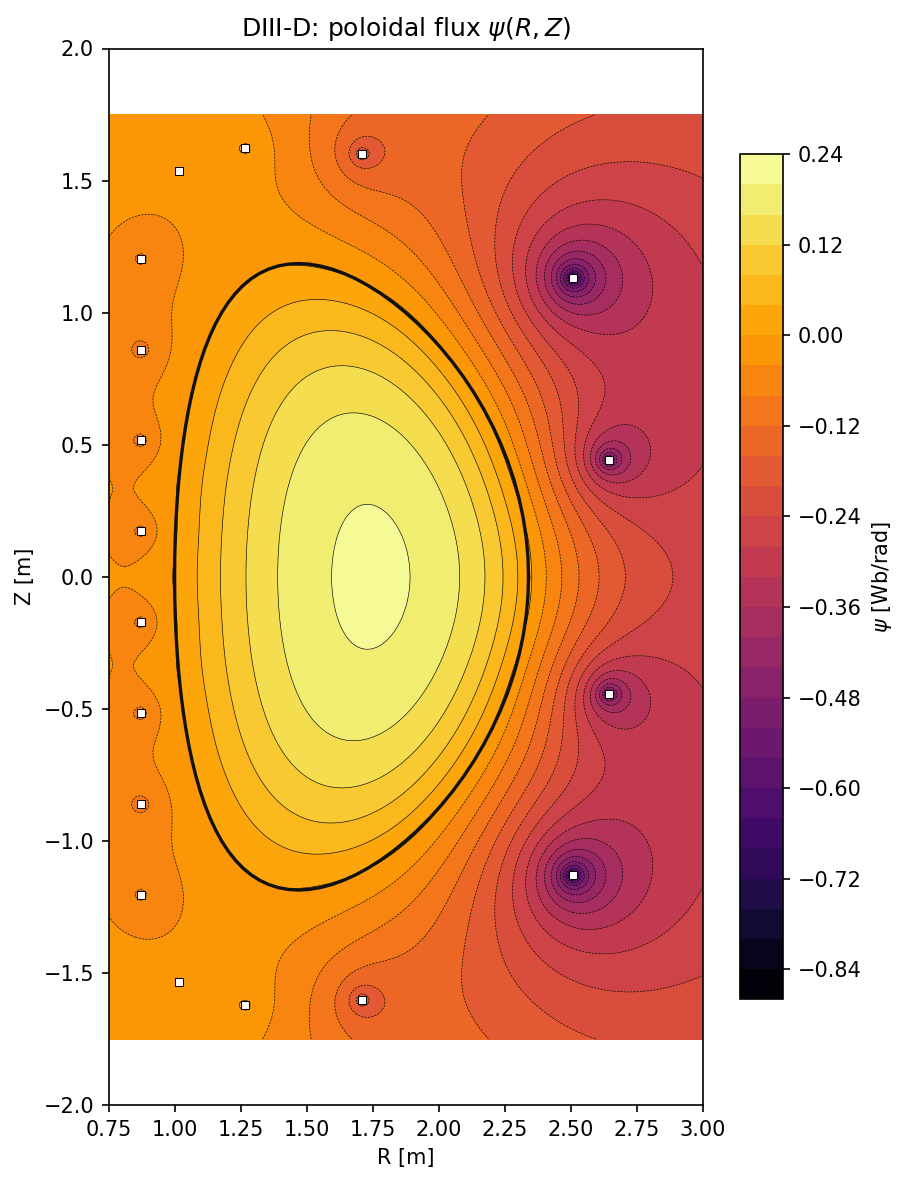
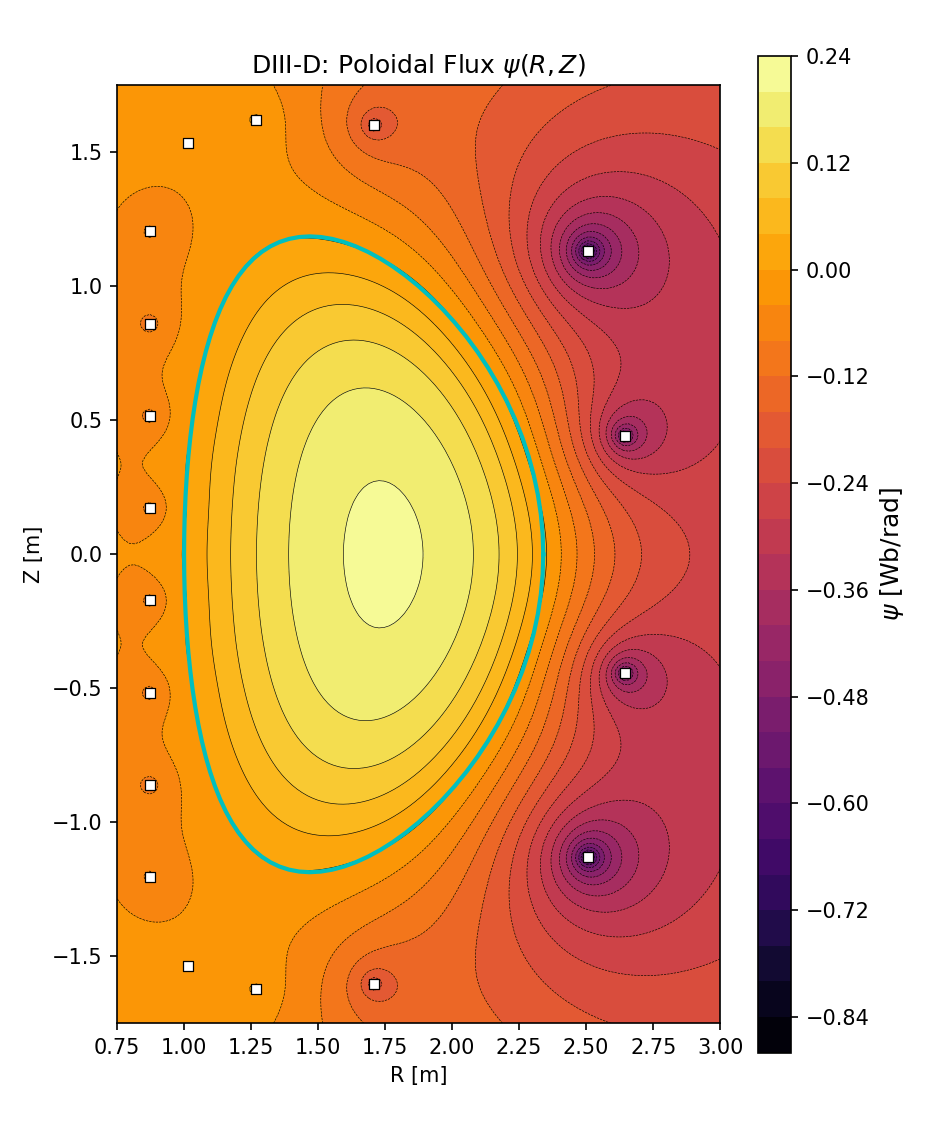
Update README figures and equation formatting
Regenerate the gallery images so that they match the validation figures
(mesh-domain limits, psi = 0 isocontour for the X-point solution, and the
zoom with the near-zero isocontours), without legends. Generate them from
the shared plotting module used by the notebooks, which now provides
dedicated functions for the flux, the X-point solution and its zoom.

Remove the LaTeX thin-space macros from the README equations and from the
notebook text, which some renderers display as stray commas, and simplify
the least-squares equation.

diff --git a/notebooks/reproduce_common.py b/notebooks/reproduce_common.py
@@ -463,53 +463,78 @@ def xpoint_table(runs, tags):
               f'{ref[t][0]:>11.2e} {ref[t][1]:>11.2e} {ref[t][2]:>11.2e}')
 
 
-def plot_xpoint_panels(run, fname=None, with_field=True):
-    """Nx=1 solution: (a) psi, (b) zoom at the X-point and, if ``with_field``, (c) B_R and B_Z along Z at R = R_X."""
+def _coil_squares(ax, cur, label=None):
+    ax.scatter(cur[:, 0], cur[:, 1], marker='s', s=25, c='white', edgecolors='k', linewidths=0.6,
+               label=label, zorder=5)
+
+
+def plot_xpoint_flux(run, fname=None):
+    """Nx=1: poloidal flux over the whole mesh domain. The cyan curve is the psi = 0 isocontour
+    (it passes through the X-point; small loops around isolated coils are genuine psi = 0 curves)."""
+    import matplotlib.pyplot as plt
+    RX, ZX = XPOINT_RZ
+    RR, ZZ = np.meshgrid(run['Rg'], run['Zg'])
+    levels = np.linspace(-1.0, 0.25, 31)
+    fig, ax = plt.subplots(figsize=(6, 7))
+    cf = ax.contourf(RR, ZZ, run['psi'], levels=levels, cmap='inferno', extend='both')
+    ax.contour(RR, ZZ, run['psi'], levels=levels, colors='k', linewidths=0.4)
+    ax.contour(RR, ZZ, run['psi'], levels=[0.0], colors='c', linewidths=2)
+    _coil_squares(ax, run['currents'])
+    ax.plot([RX], [ZX], 'r+', ms=18, mew=2)
+    fig.colorbar(cf, ax=ax, shrink=0.85).set_label(r'$\psi$ [Wb/rad]', fontsize=12)
+    ax.set_xlabel('R [m]')
+    ax.set_ylabel('Z [m]')
+    ax.set_title(rf'DIII-D ($N_x=1$, X-point ({RX:.2f},{ZX:.2f})): Poloidal Flux $\psi(R,Z)$', fontsize=11)
+    ax.set_xlim(R_LIM[0], R_LIM[1])
+    ax.set_ylim(run['Zg'][0], run['Zg'][-1])
+    ax.set_xticks(np.arange(R_LIM[0], R_LIM[1] + 0.01, 0.25))
+    fig.tight_layout()
+    if fname:
+        fig.savefig(fname, dpi=150, bbox_inches='tight')
+    return fig
+
+
+def plot_xpoint_zoom(run, fname=None):
+    """Nx=1: zoom at the X-point. Thick cyan: psi = 0. Thin lines: psi = +-0.001, +-0.003, +-0.005,
+    +-0.01 (solid positive, dashed negative). The colormap saturates outside [-0.27, 0.06]."""
+    import matplotlib.pyplot as plt
+    RX, ZX = XPOINT_RZ
+    RR, ZZ = np.meshgrid(run['Rg'], run['Zg'])
+    fig, ax = plt.subplots(figsize=(6.0, 5.9))
+    cf = ax.contourf(RR, ZZ, run['psi'], levels=np.arange(-1.0, 0.7501, 0.01), cmap='inferno',
+                     extend='both', vmin=-0.27, vmax=0.06)
+    cs = ax.contour(RR, ZZ, run['psi'], levels=[-0.01, -0.005, -0.003, -0.001, 0.001, 0.003, 0.005, 0.01],
+                    colors='deepskyblue', linewidths=1.0)
+    ax.clabel(cs, levels=[-0.003, 0.003], fontsize=6, fmt='%g')
+    ax.contour(RR, ZZ, run['psi'], levels=[0.0], colors='cyan', linewidths=3)
+    _coil_squares(ax, run['currents'])
+    ax.plot([RX], [ZX], 'r+', ms=18, mew=2.5)
+    cb = fig.colorbar(cf, ax=ax, shrink=0.85)
+    cb.set_label(r'$\psi$ [Wb/rad]', fontsize=11)
+    ticks = np.round(np.arange(-0.95, 0.58, 0.19), 2) + 0.0
+    cb.set_ticks(ticks)
+    cb.set_ticklabels([('0.00' if abs(t) < 1e-9 else f'{t:.2f}'.replace('-', '\u2212')) for t in ticks])
+    ax.set_xlim(RX - 0.35, RX + 0.35)
+    ax.set_ylim(ZX - 0.30, ZX + 0.30)
+    ax.set_xlabel('R [m]')
+    ax.set_ylabel('Z [m]')
+    ax.set_title('Zoom on the X-point region', fontsize=12)
+    fig.tight_layout()
+    if fname:
+        fig.savefig(fname, dpi=150, bbox_inches='tight')
+    return fig
+
+
+def plot_xpoint_field(run, fname=None):
+    """Nx=1: B_R and B_Z along Z at R = R_X, from the derivative of psi (cubic spline)."""
     import matplotlib.pyplot as plt
     from scipy.interpolate import RectBivariateSpline
     RX, ZX = XPOINT_RZ
-    RR, ZZ = np.meshgrid(run['Rg'], run['Zg'])
-    bd, cur = run['boundary'], run['currents']
-    fig, axes = plt.subplots(1, 3 if with_field else 2, figsize=(17 if with_field else 12, 6))
-    ax = axes[0]
-    cf = ax.contourf(RR, ZZ, run['psi'], levels=30, cmap='inferno')
-    ax.contour(RR, ZZ, run['psi'], levels=30, colors='k', linewidths=0.3)
-    ax.plot(bd[:, 0], bd[:, 1], 'c-', lw=1.5, label='Boundary with X-point')
-    ax.scatter(cur[:, 0], cur[:, 1], marker='s', s=20, c='white', edgecolors='k', lw=0.5, zorder=5, label='PF coils')
-    ax.plot([RX], [ZX], 'rx', ms=9, mew=2, label='X-point')
-    ax.set_title(r'Poloidal flux $\psi(R,Z)$')
-    ax.set_aspect('equal')
-    ax.set_xlabel('R [m]')
-    ax.set_ylabel('Z [m]')
-    ax.legend(fontsize=7, loc='upper right')
-    fig.colorbar(cf, ax=ax, shrink=0.7)
-    ax = axes[1]
-    w = 0.25
-    sel_r = (run['Rg'] > RX - w) & (run['Rg'] < RX + w)
-    sel_z = (run['Zg'] > ZX - w) & (run['Zg'] < ZX + w)
-    sub = run['psi'][np.ix_(sel_z, sel_r)]
-    cf = ax.contourf(RR[np.ix_(sel_z, sel_r)], ZZ[np.ix_(sel_z, sel_r)], sub, levels=30, cmap='inferno')
-    ax.contour(RR[np.ix_(sel_z, sel_r)], ZZ[np.ix_(sel_z, sel_r)], sub, levels=[0.0], colors='c', linewidths=1.5)
-    ax.plot(bd[:, 0], bd[:, 1], 'w-', lw=1)
-    ax.plot([RX], [ZX], 'rx', ms=10, mew=2)
-    ax.set_xlim(RX - w, RX + w)
-    ax.set_ylim(ZX - w, ZX + w)
-    ax.set_title('Zoom at the X-point')
-    ax.set_aspect('equal')
-    ax.set_xlabel('R [m]')
-    fig.colorbar(cf, ax=ax, shrink=0.7)
-    if not with_field:
-        fig.tight_layout()
-        if fname:
-            fig.savefig(fname, dpi=150, bbox_inches='tight')
-        return fig
-    ax = axes[2]
     sp = RectBivariateSpline(run['Zg'], run['Rg'], run['psi'], kx=3, ky=3)
     zs = np.linspace(max(ZX - 0.5, run['Zg'][0]), ZX + 0.5, 400)
-    BR = -sp(zs, RX, dx=1, grid=False) / RX
-    BZ = sp(zs, RX, dy=1, grid=False) / RX
-    ax.plot(zs, BR, label=r'$B_R$')
-    ax.plot(zs, BZ, label=r'$B_Z$')
+    fig, ax = plt.subplots(figsize=(6, 4.5))
+    ax.plot(zs, -sp(zs, RX, dx=1, grid=False) / RX, label=r'$B_R$')
+    ax.plot(zs, sp(zs, RX, dy=1, grid=False) / RX, label=r'$B_Z$')
     ax.axvline(ZX, color='r', ls=':', lw=1)
     ax.axhline(0, color='0.6', lw=0.5)
     ax.set_xlabel('Z [m]')
@@ -564,21 +589,29 @@ def _decorate(ax, F, run, R_LIM, Z_LIM, coils=True):
 
 
 R_LIM = (0.75, 3.0)
-Z_LIM = (-2.0, 2.0)
+Z_LIM = (-1.75, 1.75)
 
 
 def plot_flux(F, run, fname=None):
+    """Nx=0: poloidal flux over the mesh domain, with the D-shape boundary and the PF coils."""
     import matplotlib.pyplot as plt
-    fig, ax = plt.subplots(figsize=(6, 8))
+    fig, ax = plt.subplots(figsize=(6.2, 7.6))
     cf = ax.contourf(F['RR'], F['ZZ'], F['psi'], levels=30, cmap='inferno')
     ax.contour(F['RR'], F['ZZ'], F['psi'], levels=30, colors='k', linewidths=0.3)
-    _decorate(ax, F, run, R_LIM, Z_LIM)
+    ax.plot(run['boundary'][:, 0], run['boundary'][:, 1], 'c-', lw=2)
+    _coil_squares(ax, run['currents'])
+    cb = fig.colorbar(cf, ax=ax, aspect=30, pad=0.05, fraction=0.15)
+    cb.set_label(r'$\psi$ [Wb/rad]', fontsize=12)
+    ax.set_xlabel('R [m]')
     ax.set_ylabel('Z [m]')
-    ax.set_title(r'DIII-D: poloidal flux $\psi(R,Z)$')
-    fig.colorbar(cf, ax=ax, shrink=0.8).set_label(r'$\psi$ [Wb/rad]')
+    ax.set_title(r'DIII-D: Poloidal Flux $\psi(R,Z)$')
+    ax.set_xlim(R_LIM[0], R_LIM[1])
+    ax.set_ylim(F['Zg'][0], F['Zg'][-1])
+    ax.set_xticks(np.arange(R_LIM[0], R_LIM[1] + 0.01, 0.25))
     fig.tight_layout()
+    ax.set_aspect('equal')
     if fname:
-        fig.savefig(fname, dpi=150, bbox_inches='tight')
+        fig.savefig(fname, dpi=150)
     return fig
 
 

diff --git a/README.md b/README.md
@@ -4,7 +4,7 @@ A fast, parallel solver for the **semi-free boundary** problem of axisymmetric t
 toroidal current density of the plasma $J_\phi(R,Z)$, a desired plasma boundary (smooth, or with one or more
 X-points) and the positions of the poloidal-field (PF) coils, it computes the coil currents that sustain that
 boundary and extends the solution to the vacuum region outside the plasma, returning the poloidal flux
-$\psi(R,Z)$ and the magnetic field $B_R,\,B_Z$.
+$\psi(R,Z)$ and the magnetic field components $B_R$ and $B_Z$.
 
 The problem is formulated with the Green functions of the toroidal elliptic operator $\Delta^*$ and solved as a
 regularized least-squares problem (with exact equality constraints when X-points are prescribed). No iterative
@@ -14,14 +14,15 @@ independent of the others, which makes the code naturally parallel (OpenMP).
 <p align="center">
   <img src="assets/poloidal_flux.png" alt="Poloidal flux of the DIII-D case" height="440">
 </p>
-<p align="center"><em>Poloidal flux &psi;(R,Z) for the DIII-D case (151x261 mesh, no X-point). The black curve is the
+<p align="center"><em>Poloidal flux &psi;(R,Z) for the DIII-D case (151x261 mesh, no X-point). The cyan curve is the
 prescribed plasma boundary and the squares are the 18 PF coils.</em></p>
 
 <p align="center">
-  <img src="assets/xpoint_solution.png" alt="Solution with an X-point and zoom" width="760">
+  <img src="assets/xpoint_flux.png" alt="Solution with an X-point" height="440">
+  <img src="assets/xpoint_zoom.png" alt="Zoom around the X-point" height="440">
 </p>
-<p align="center"><em>Solution with one X-point at (R, Z) = (1.45, -1.30) m: poloidal flux (left) and zoom around the
-X-point (right).</em></p>
+<p align="center"><em>Solution with one X-point at (R, Z) = (1.45, -1.30) m: poloidal flux over the whole domain
+(the cyan curve is the &psi; = 0 isocontour, which passes through the X-point) and zoom around the X-point.</em></p>
 
 ## Contents
 
@@ -40,20 +41,21 @@ X-point (right).</em></p>
 Treating $J_\phi$ as a fixed source, the Grad-Shafranov equation becomes linear,
 $\Delta^*\psi=-\mu_0 R J_\phi$, so the flux is a superposition of the plasma and coil contributions,
 
-$$\psi(R_b,Z_b)=\underbrace{\int_{\Omega_p} J_\phi\,G^{\psi}\,dR\,dZ}_{\psi_p}+\underbrace{\sum_{i=1}^{N_c} I_i\,G^{\psi}(R_i,Z_i;R_b,Z_b)}_{\psi_c},$$
+$$\psi(R_b,Z_b)=\underbrace{\int_{\Omega_p} J_\phi G^{\psi} dR dZ}_{\psi_p}+\underbrace{\sum_{i=1}^{N_c} I_i G^{\psi}(R_i,Z_i;R_b,Z_b)}_{\psi_c}$$
 
 where $G^\psi$ is the Green function of $\Delta^*$ (expressed with complete elliptic integrals). The currents $I_i$
 are the solution of
 
-$$\min_I \;\lVert G\,I-r\rVert^2,\qquad r_j=\psi_{ref}-\psi_p(R_{b_j},Z_{b_j}),$$
+$$\min_I \lVert G I-r\rVert^2$$
 
-over $N_b\gg N_c$ boundary points. The main numerical ingredients are:
+where $G_{ji}=G^\psi(R_i,Z_i;R_{b_j},Z_{b_j})$ and $r_j=\psi_{ref}-\psi_p(R_{b_j},Z_{b_j})$, over $N_b\gg N_c$ boundary
+points. The main numerical ingredients are:
 
 - **Regularized SVD solution.** The matrix $G$ is severely ill-conditioned, so the problem is solved through its
   SVD (the normal equations are never formed) with Tikhonov regularization; the parameter is chosen
   automatically at the corner of the L-curve (or set manually in the configuration file).
 - **X-points.** For each X-point the three conditions $B_R=0$, $B_Z=0$, $\psi=\psi_{ref}$ are imposed *exactly* as
-  a linear constraint $C\,I=d$ and eliminated with the null-space method, which reduces the problem to an
+  a linear constraint $C I=d$ and eliminated with the null-space method, which reduces the problem to an
   unconstrained one with the same solver.
 - **Cut-Cell quadrature.** The plasma integral over the current-density grid uses a boundary-conforming quadrature
   of second order, $O(h^2)$, with a subtraction of the Green-function singularity.
@@ -153,7 +155,7 @@ on the boundary, so the boundary must have a cusp there. There are two ways to p
 
 Every case directory in `cases/` ships both variants. `Dshape.txt`/`Jt.txt` are the smooth boundary and its current
 density; `Dshape_xpoint.txt`/`Jt_xpoint.txt` are the boundary deformed to create an X-point at
-$(R_X,Z_X)=(1.45,\,-1.30)$ m (the cusp vertex is exactly that point) and the current density consistent with it.
+$(R_X, Z_X)=(1.45, -1.30)$ m (the cusp vertex is exactly that point) and the current density consistent with it.
 The solver reads the files named in the configuration, so to run the X-point variant use a separate directory
 (the outputs share names with the smooth-boundary run):
 
@@ -182,14 +184,14 @@ Written to the working directory (lengths in meters, currents in amperes, $\psi$
 | `Jphi_check.txt` | The current density as read by the solver. |
 
 `BR_check.txt` and `BZ_check.txt` are the two most expensive outputs. Note that near the plasma boundary
-(inside it) the closed-form $G^{B_R},G^{B_Z}$ are singular enough to lose accuracy; **differentiating $\psi$**
+(inside it) the closed-form $G^{B_R}$ and $G^{B_Z}$ are singular enough to lose accuracy; **differentiating $\psi$**
 ($B_R=-\frac1R\partial_Z\psi$, $B_Z=\frac1R\partial_R\psi$) gives a smooth, divergence-free field and is the
 recommended way to obtain $\mathbf{B}$.
 
 ### Cost
 
 The final evaluation of $\psi$ (and of $B$) sums over the whole current-density grid for every output point, so its
-cost grows like $N^2$ with $N=n_{pr}\,n_{pz}$. Reference times on a 2-core machine (Google Colab):
+cost grows like $N^2$ with $N=n_{pr} n_{pz}$. Reference times on a 2-core machine (Google Colab):
 
 | Mesh | 82x142 | 100x172 | 151x261 | 213x368 | 301x521 |
 |---|---|---|---|---|---|
